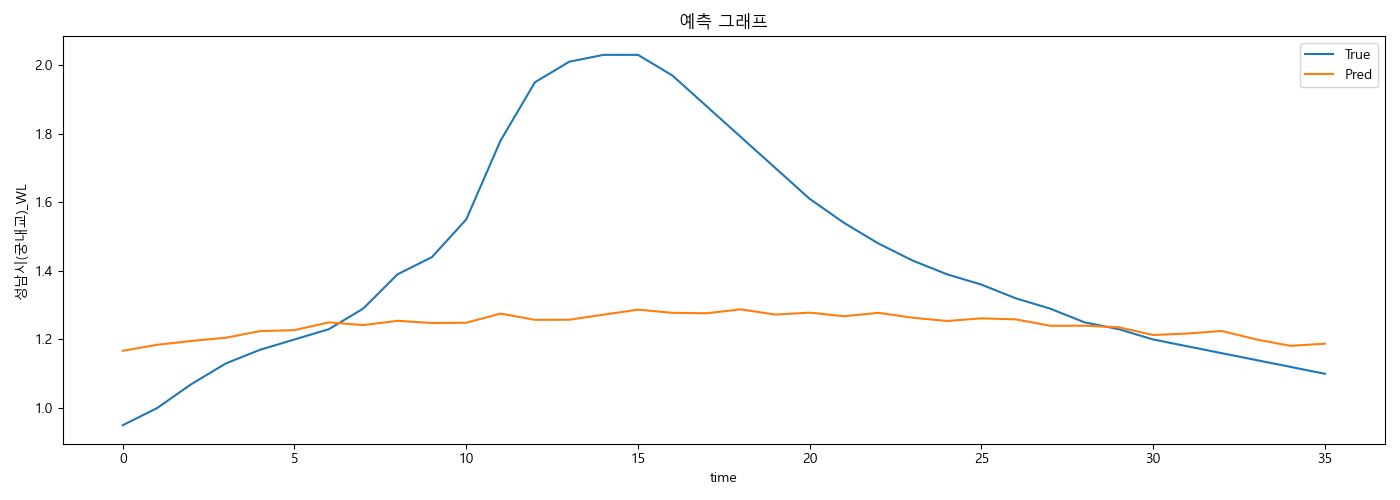
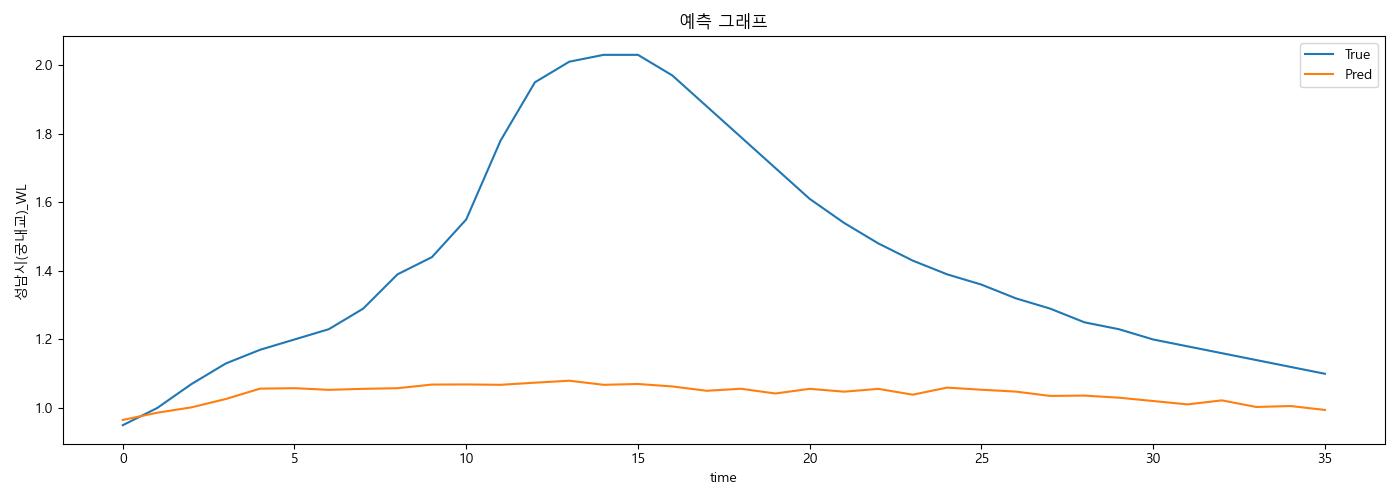
36-step rollout 버전

diff --git a/main.py b/main.py
@@ -88,7 +88,7 @@ def data_scalers(train_events, feature_cols, target_col):
 
 
 # 데이터셋 생성
-#    X: (샘플, seq_len, n_features)     y: (샘플,)
+#    X: (N, seq_len, n_features)       y: (N, 1)
 def create_dataset (df, feature_cols, target_col, scaler_x, scaler_y, seq_length) :
 
     X_scaled = scaler_x.transform(df[feature_cols].values)  # (T, n_feat)
@@ -97,18 +97,19 @@ def create_dataset (df, feature_cols, target_col, scaler_x, scaler_y, seq_length
     X, y = [], []
 
     start_t = seq_length
-    end_t = len(df) - seq_length + 1  
+    end_t = len(df) # 1-step 이라 끝까지 가능
 
 
     for i in range(start_t, end_t):
-        X.append(X_scaled[i-seq_length:i, :])      # 강수만 (seq_len, n_feat)
-        y.append(y_scaled[i:i+seq_length])         # 미래 36-step 수위 (seq_len,)
+        X.append(X_scaled[i-seq_length:i, :])      # (seq_len, n_feat)
+        # y.append(y_scaled[i:i+seq_length])         # 미래 36-step 수위 (seq_len,)
+        y.append([y_scaled[i]])                # ✅ (1,)
 
     
     return np.array(X, dtype=np.float32), np.array(y, dtype=np.float32) # (N,seq_length,n1) (N,seq_length)
 
 
-# 이벤트 여러개 -> X,y 합치기
+# 이벤트 여러개 합치기
 def build_xy(events, feature_cols, target_col, scaler_x, scaler_y, seq_length):
     X_list, y_list = [], []
     for df in events:
@@ -118,42 +119,88 @@ def build_xy(events, feature_cols, target_col, scaler_x, scaler_y, seq_length):
         X_list.append(X)
         y_list.append(y)
 
+    if len(X_list) == 0:
+        return np.empty((0, seq_length, len(feature_cols)), dtype=np.float32), np.empty((0, 1), dtype=np.float32)
+
     X_all = np.concatenate(X_list, axis=0)
     y_all = np.concatenate(y_list, axis=0)
     return X_all, y_all
 
 
-# 모델 구축
-def build_lstm_model(seq_length, n_features, hidden_units=64):
-    """
-    단일 입력(관측/피처) 기반 단일 LSTM 시계열 예측 모델
-    입력:  (batch, seq_length, n_features)
-    출력:  (batch, seq_length)  # 예: 미래 36스텝 수위
-    """
-    inp = tf.keras.Input(shape=(seq_length, n_features), name="ts_input")
+# # 모델 구축
+# def build_lstm_model(seq_length, n_features, hidden_units=64):
+#     """
+#     단일 입력(관측/피처) 기반 단일 LSTM 시계열 예측 모델
+#     입력:  (batch, seq_length, n_features)
+#     출력:  (batch, seq_length)  # 예: 미래 36스텝 수위
+#     """
+#     inp = tf.keras.Input(shape=(seq_length, n_features), name="ts_input")
 
-    x = tf.keras.layers.LSTM(hidden_units, return_sequences=True)(inp)
-    x = tf.keras.layers.LSTM(hidden_units, return_sequences=False)(x)
+#     x = tf.keras.layers.LSTM(hidden_units, return_sequences=True)(inp)
+#     x = tf.keras.layers.LSTM(hidden_units, return_sequences=False)(x)
 
-    x = tf.keras.layers.Dense(64, activation="relu")(x)
-    out = tf.keras.layers.Dense(seq_length, name="y_seq")(x)
+#     x = tf.keras.layers.Dense(64, activation="relu")(x)
+#     out = tf.keras.layers.Dense(seq_length, name="y_seq")(x)
 
-    model = tf.keras.Model(inputs=inp, outputs=out)
-    model.compile(optimizer=tf.keras.optimizers.Adam(1e-3), loss="mse")
-    model.summary()
+#     model = tf.keras.Model(inputs=inp, outputs=out)
+#     model.compile(optimizer=tf.keras.optimizers.Adam(1e-3), loss="mse")
+#     model.summary()
 
-    return model
+#     return model
 
 
-# 모델 구축 2
+# 모델 구축 (Dense(1))
 def make_lstm_model(seq_length, n_features, hidden_units=64):
     #모델 세팅
     model = Sequential()
     model.add(LSTM(hidden_units, input_shape=(seq_length, n_features), return_sequences=False))# 마지막 hidden state만 사용
-    model.add(Dense(seq_length))
+    model.add(Dense(1))
     model.compile(loss='mean_squared_error', optimizer='adam')
 
     return model
+
+
+# 36-step rollout 예측 (y_true 오염 방지)
+def rollout_predict_36(model, df, feature_cols, target_col, scaler_x, scaler_y, seq_length=36, horizon=36, start_idx=None):
+    """
+    1-step 모델(Dense(1))로 horizon(=36) 스텝을 순차 예측.
+    feature_cols에 target_col 포함 필수.
+    """
+    if target_col not in feature_cols:
+        raise ValueError("rollout 하려면 feature_cols에 target_col(수위)이 포함되어야 합니다.")
+
+    src = df.reset_index(drop=True)
+    T = len(src)
+
+    if start_idx is None:
+        start_idx = seq_length
+
+    if T < start_idx + horizon:
+        return None
+
+    # 실제값은 원본에서 먼저 고정 (오염 방지)
+    y_true_36 = src.loc[start_idx:start_idx+horizon-1, target_col].to_numpy().astype(np.float32)
+
+    # 예측용 복사본
+    work = src.copy()
+
+    preds = []
+    for h in range(horizon):
+        t = start_idx + h
+
+        X_win = work.loc[t-seq_length:t-1, feature_cols].to_numpy()
+        X_scaled = scaler_x.transform(X_win).astype(np.float32).reshape(1, seq_length, len(feature_cols))
+
+        pred_scaled = model.predict(X_scaled, verbose=0).reshape(-1, 1)  # (1,1)
+        pred = scaler_y.inverse_transform(pred_scaled).reshape(-1)[0]
+
+        preds.append(float(pred))
+
+        # 다음 스텝 입력을 위해 예측 수위 피드백(예측용 work에만)
+        work.loc[t, target_col] = pred
+
+    y_pred_36 = np.array(preds, dtype=np.float32)
+    return y_pred_36, y_true_36
 
 
 def inverse_y(y_scaled_seq, scaler_y):
@@ -177,12 +224,12 @@ def predict(model, df, feature_cols, target_col, scaler_x, scaler_y, seq_length,
     y_pred = inverse_y(pred_scaled, scaler_y)  # (N, seq_length)
     y_true = inverse_y(y,          scaler_y)   # (N, seq_length)
 
-    y_true_flat = y_true.reshape(-1)
-    print("[실제값]",
-        "min=", float(y_true_flat.min()), # 전체 예측 구간에서 최소 수위 / 유량 / 값
-        "max=", float(y_true_flat.max()),
-        "std=", float(y_true_flat.std()),
-        "range=", float(y_true_flat.max() - y_true_flat.min()))
+    # y_true_flat = y_true.reshape(-1)
+    # print("[실제값]",
+    #     "min=", float(y_true_flat.min()), # 전체 예측 구간에서 최소 수위 / 유량 / 값
+    #     "max=", float(y_true_flat.max()),
+    #     "std=", float(y_true_flat.std()),
+    #     "range=", float(y_true_flat.max() - y_true_flat.min()))
 
     # 지표 (전체 36-step flatten)
     mse  = np.mean((y_pred - y_true) ** 2)
@@ -213,50 +260,39 @@ def predict(model, df, feature_cols, target_col, scaler_x, scaler_y, seq_length,
 
 
 
+# -------------------------
 # 실행
+# -------------------------
 if __name__ == "__main__":
     train_pattern = "./data/csv/*.csv"
-    test_pattern  = "./testdata/*.csv"  
+    test_pattern  = "./testdata/*.csv"
 
     target_col = "성남시(궁내교)_WL"
+
     feature_cols = [
         '성남시(한국학중앙연구원)','성남시(대장동)', '성남시(구미초교)','서울시(대곡교)',
-        '성남시(성남북초교)', '광주시(남한산초교)','궁내교_Ti', '대곡교_Ti'
+        '성남시(성남북초교)', '광주시(남한산초교)','궁내교_Ti', '대곡교_Ti',
+        target_col
     ]
 
     seq_length = 36
 
-
-    # -------------------------
     # 1) 학습 데이터 로드/전처리
-    # -------------------------
     train_raw = load_data(train_pattern)
-    train_events = [preprocess(df, target_col) for df in train_raw]
+    train_events_all = [preprocess(df, target_col) for df in train_raw]
+    train_events, valid_events, _ = split_dataset(train_events_all)
 
-    train_events, valid_events, _ = split_dataset(train_events)
-
-
-    # -------------------------
-    # 2) scaler는 train로만 fit
-    # -------------------------
+    # 2) scaler fit (train only)
     scaler_x, scaler_y = data_scalers(train_events, feature_cols, target_col)
 
-
-
-    # -------------------------
     # 3) 윈도우 생성 (train/valid)
-    # -------------------------
     X_train, y_train = build_xy(train_events, feature_cols, target_col, scaler_x, scaler_y, seq_length)
     X_valid, y_valid = build_xy(valid_events, feature_cols, target_col, scaler_x, scaler_y, seq_length)
 
-
-    print("X_train:", X_train.shape, "y_train:", y_train.shape)
+    print("X_train:", X_train.shape, "y_train:", y_train.shape)  # y_train: (N,1)
     print("X_valid:", X_valid.shape, "y_valid:", y_valid.shape)
 
-
-    # -------------------------
     # 4) 모델 학습
-    # -------------------------
     # model = build_lstm_model(seq_length=seq_length, n_features=X_train.shape[2], hidden_units=64)
     model = make_lstm_model(seq_length=seq_length, n_features=X_train.shape[2], hidden_units=64)
 
@@ -270,67 +306,73 @@ if __name__ == "__main__":
         verbose=1
     )
 
-    # ✅ 학습 과정 Plotting
+    # 학습 과정 Plot 저장
+    os.makedirs("./result_png", exist_ok=True)
     plt.figure(figsize=(25, 8))
     plt.plot(history.history['loss'])
     plt.plot(history.history['val_loss'])
-
     print('[ Train Chart ]')
     loss_min = min(history.history['val_loss'])
-    plt.ylim(0.0, loss_min * 10)
-
+    # plt.ylim(0.0, loss_min * 10)
+    plt.ylim(0.0, loss_min * 10 if loss_min > 0 else 1.0)
     plt.ylabel('loss')
     plt.xlabel('epoch')
     plt.legend(['train', 'val'], loc='upper left')
-    # 그래프 저장
-    fig_path = f"./result_png/train_forecast.png"
-    plt.savefig(fig_path)
+    plt.tight_layout()
+    plt.savefig("./result_png/train_forecast36.png")
     plt.close()
 
-
-    # -------------------------
-    # 5) 테스트 데이터 로드/전처리 (testdata 폴더) - 파일별 평가
-    # -------------------------
+    # 5) 테스트 (파일별 36-step rollout 평가)
     test_files = sorted(glob.glob(test_pattern))
     print(f"[test] files={len(test_files)}")
 
     results = []
-
     for fp in test_files:
         base = os.path.basename(fp)
         df_raw = pd.read_csv(fp)
         df = preprocess(df_raw, target_col)
 
-        res = predict(model, df, feature_cols, target_col, scaler_x, scaler_y, seq_length=seq_length, out_dir="./result_png", show=False)
+    #     res = predict(model, df, feature_cols, target_col, scaler_x, scaler_y, seq_length=seq_length, out_dir="./result_png", show=False)
 
 
-        if res is None:
-            print(f"[SKIP] {base} : 길이가 짧아 seq_length={seq_length} 윈도우 생성 불가")
+    #     if res is None:
+    #         print(f"[SKIP] {base} : 길이가 짧아 seq_length={seq_length} 윈도우 생성 불가")
+    #         continue
+
+        out = rollout_predict_36(model, df, feature_cols, target_col, scaler_x, scaler_y, seq_length=seq_length, horizon=36)
+
+        if out is None:
+            print(f"[SKIP] {base} : 길이가 짧아 rollout 36-step 불가 (need >= {seq_length+36})")
             continue
 
+        y_pred_36, y_true_36 = out
+
+        mse  = float(np.mean((y_pred_36 - y_true_36) ** 2))
+        mae  = float(mean_absolute_error(y_true_36, y_pred_36))
+        rmse = float(np.sqrt(mse))
+        r2   = float(r2_score(y_true_36, y_pred_36))
+
         # 그래프 저장
-        safe_name = re.sub(r'[\\/:*?"<>|]+', "_", os.path.splitext(base)[0]) # 파일명에서 확장자를 제거
-        fig_path = f"./result_png/{safe_name}_forecast.png"
+        plt.figure(figsize=(14, 5))
+        plt.plot(y_true_36, label="True")
+        plt.plot(y_pred_36, label="Pred")
+        plt.title("36-step rollout 예측 그래프")
+        plt.xlabel("step")
+        plt.ylabel(target_col)
+        plt.legend()
+        plt.tight_layout()
+
+        safe_name = re.sub(r'[\\/:*?"<>|]+', "_", os.path.splitext(base)[0])
+        fig_path = f"./result_png/{safe_name}_rollout36.png"
         plt.savefig(fig_path)
         plt.close()
 
         print(f"\n[Test: {base}]")
-        print(f" MSE={res['mse']:.4f}, MAE={res['mae']:.4f}, RMSE={res['rmse']:.4f}, R2={res['r2']:.4f}")
+        print(f" MSE={mse:.4f}, MAE={mae:.4f}, RMSE={rmse:.4f}, R2={r2:.4f}")
 
-        results.append((base, res["mse"], res["mae"], res["rmse"], res["r2"]))
+        results.append((base, mse, mae, rmse, r2))
 
-    # 전체 요약(평균)
     if results:
         arr = np.array([r[1:] for r in results], dtype=float)
         print("\n[SUMMARY] 파일별 지표 평균")
         print(f" MSE={arr[:,0].mean():.4f}, MAE={arr[:,1].mean():.4f}, RMSE={arr[:,2].mean():.4f}, R2={arr[:,3].mean():.4f}")
-        
-
-
-
-
-
-
-
-
-
